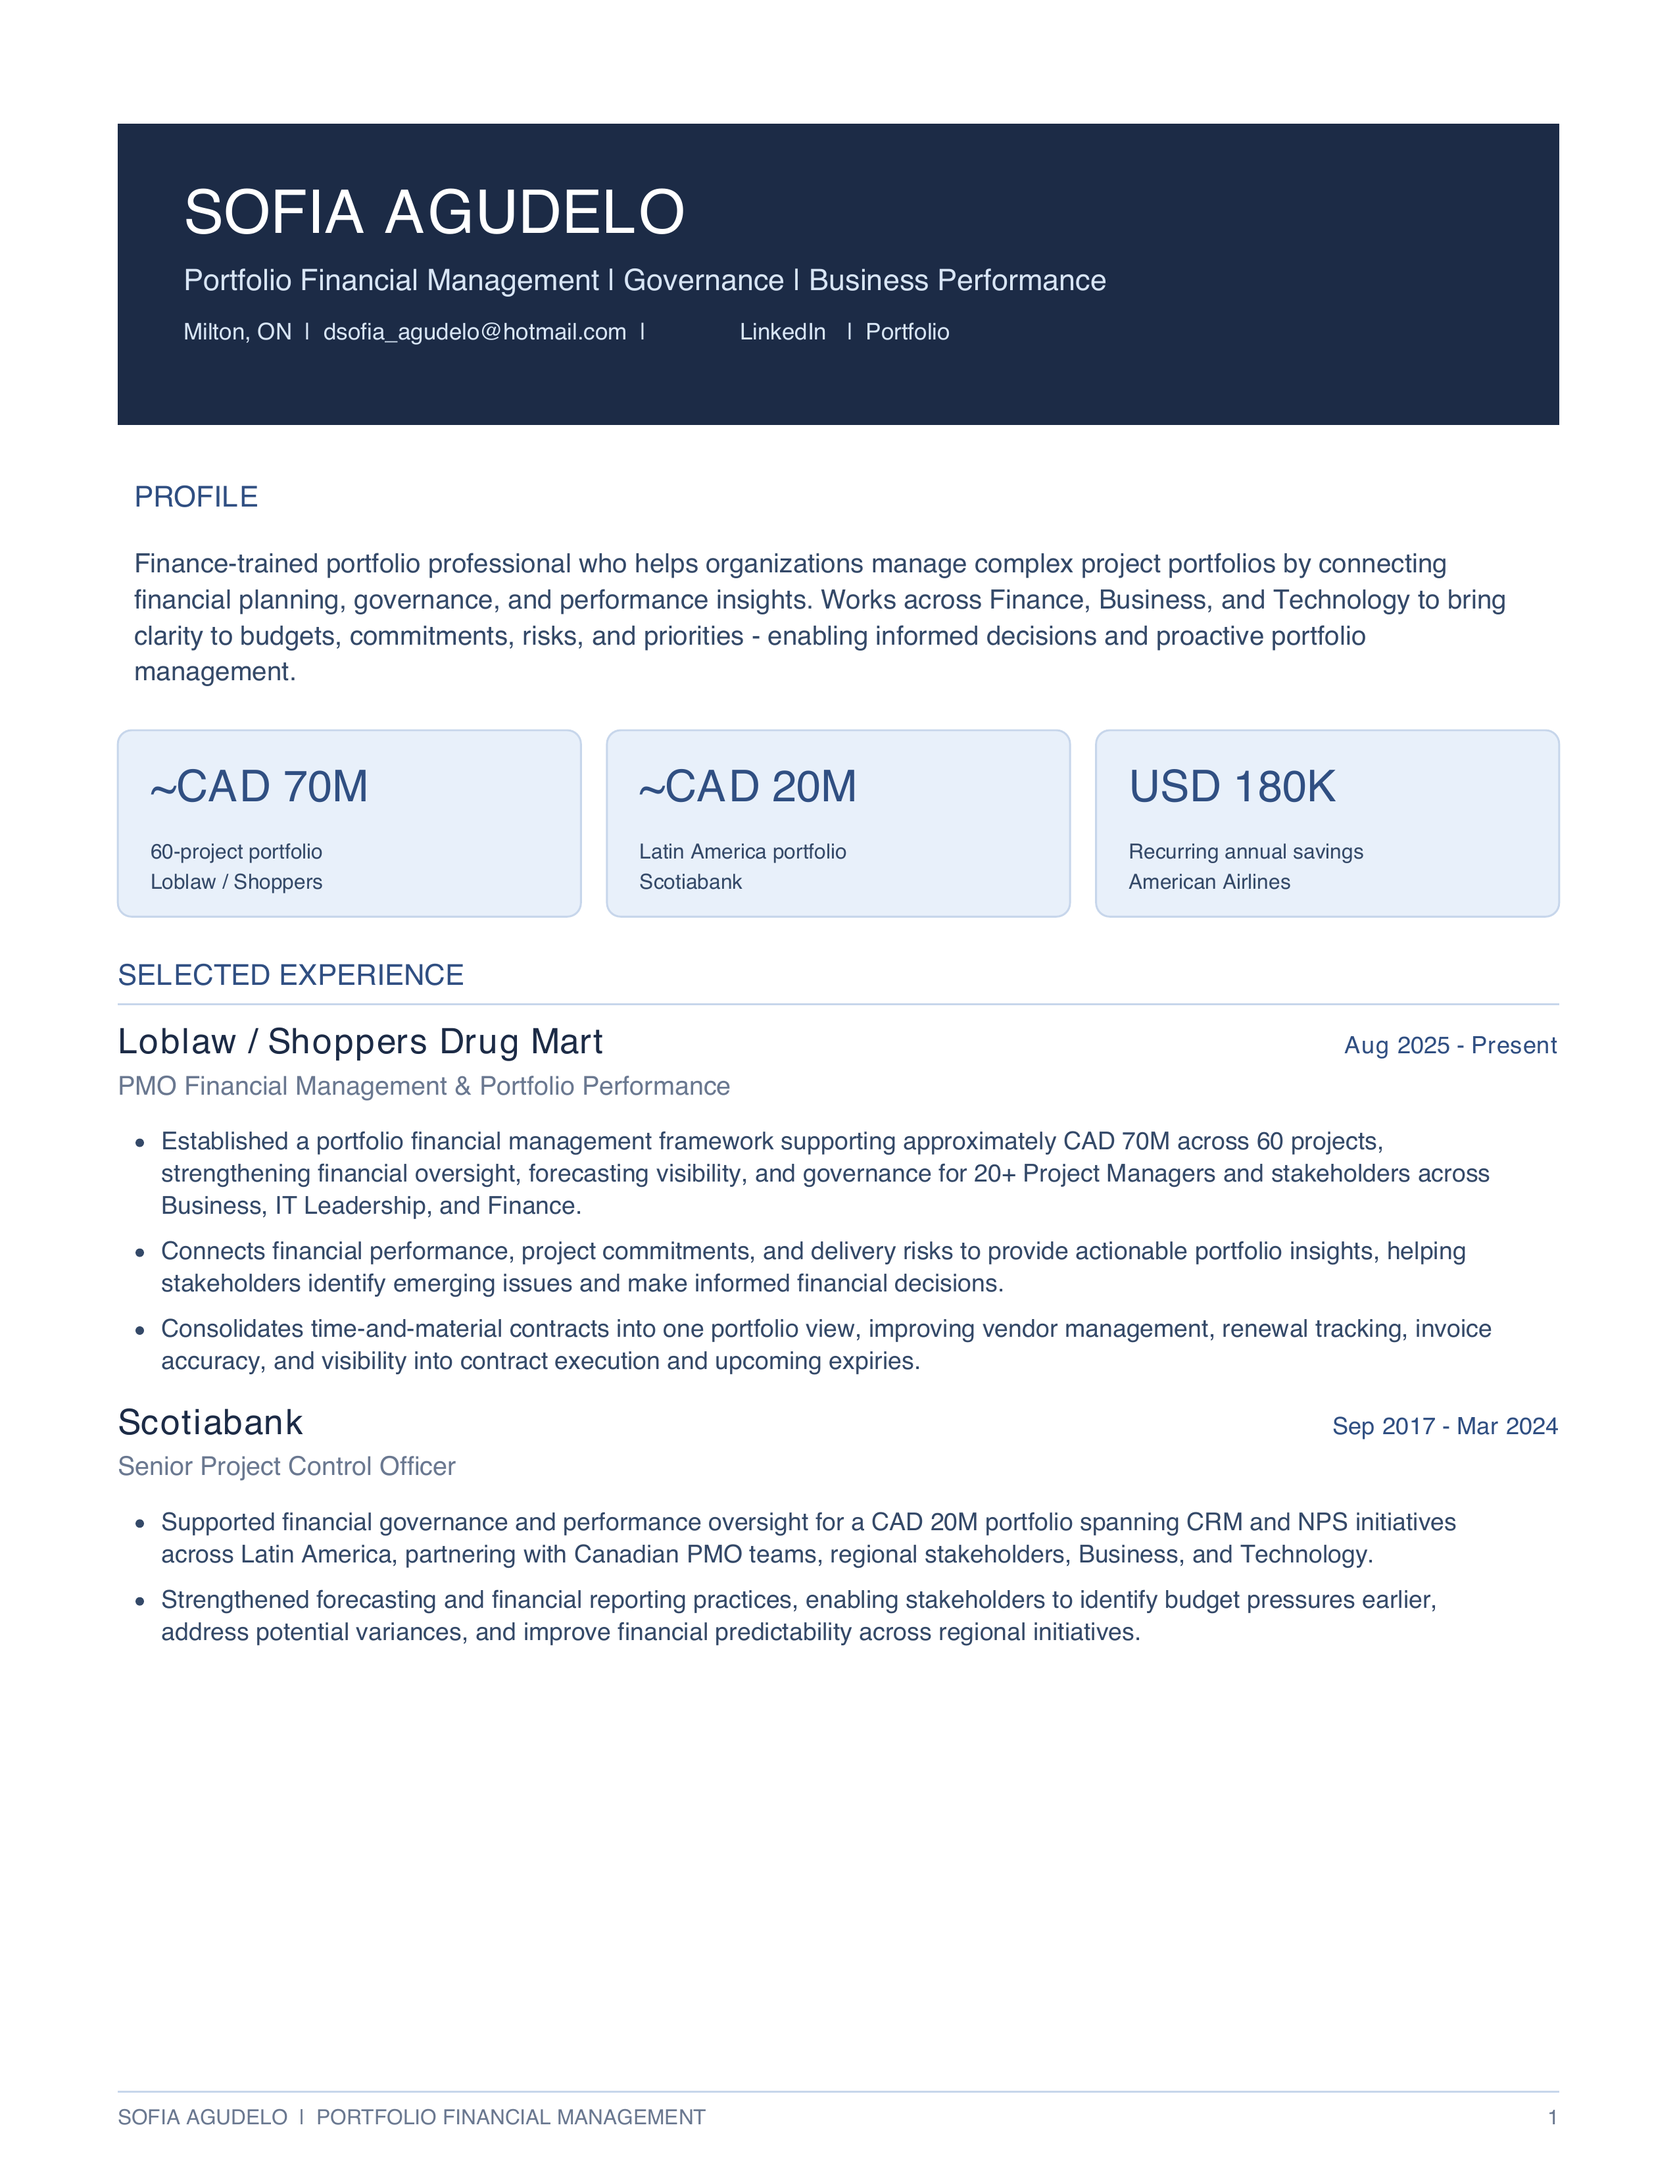
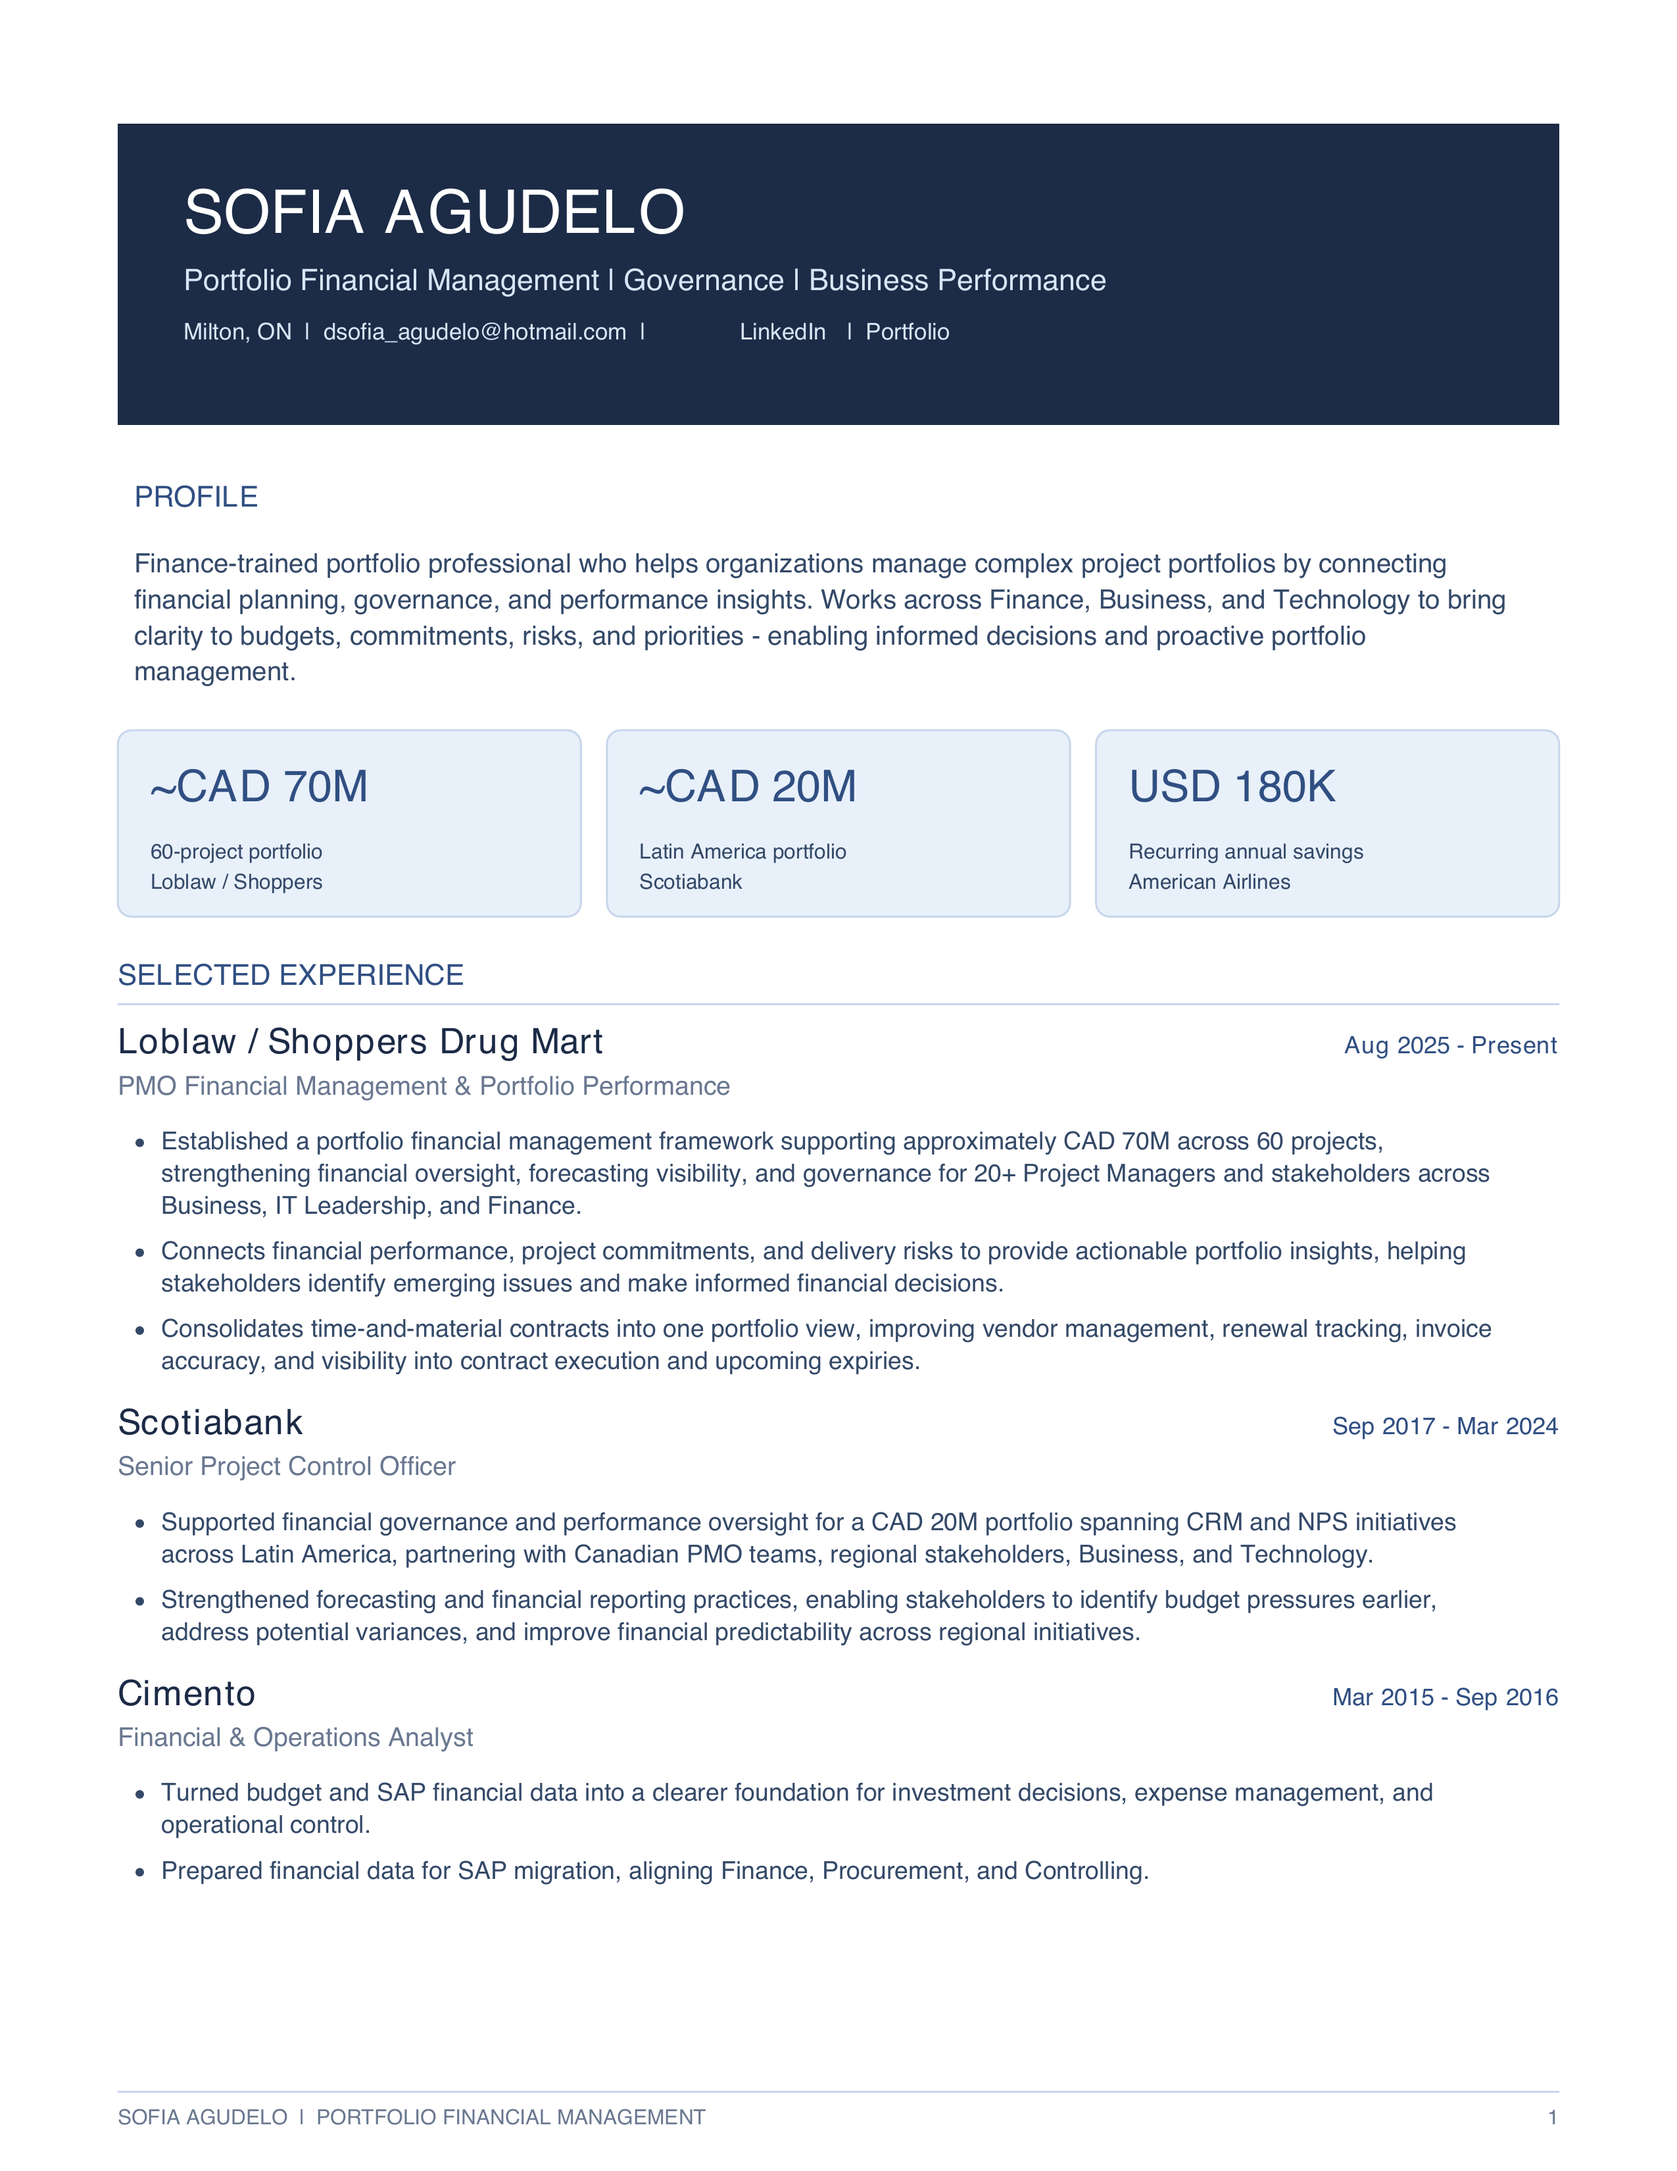
Rebalance resume content across pages

diff --git a/resume.html b/resume.html
@@ -1,7 +1,7 @@
 <!doctype html>
 <html lang="en"><head><meta charset="utf-8"><meta name="viewport" content="width=device-width,initial-scale=1"><meta name="robots" content="noindex,nofollow"><title>Resume · Sofia Agudelo</title><link rel="stylesheet" href="styles.css?v=20260928-4"><link rel="stylesheet" href="banner-fix.css?v=20260930-1"><link rel="icon" type="image/svg+xml" href="favicon.svg"><link rel="preconnect" href="https://fonts.googleapis.com"><link rel="preconnect" href="https://fonts.gstatic.com" crossorigin><link href="https://fonts.googleapis.com/css2?family=DM+Sans:wght@400;500;600;700&family=Playfair+Display:wght@500;600&display=swap" rel="stylesheet"></head>
 <body><a class="skip" href="#main">Skip to content</a><nav class="nav" aria-label="Main navigation"><div class="wrap"><a class="brand" href="index.html"><span>SOFIA AGUDELO<small>PORTFOLIO FINANCIAL MANAGEMENT</small></span></a><div class="navlinks"><a href="index.html">Home</a><a href="achievements.html">Achievements</a><a href="experience.html">Experience</a><a class="active" href="resume.html">Resume</a><a href="contact.html">Contact</a></div></div></nav>
-<main id="main" class="wrap resume-view-page"><header class="resume-view-head"><div><div class="eyebrow">Portfolio Financial Management · Governance · Business Performance</div><h1 class="serif">Resume</h1><p>Finance-trained portfolio professional with extensive experience in IT project environments, connecting financial planning, governance, and performance insights across Finance, Business, and Technology.</p></div><div class="resume-actions"><a class="btn primary" href="assets/Sofia-Agudelo-Resume.pdf?v=20261010-1" download="Sofia-Agudelo-Resume.pdf">↓ Download resume</a><a class="btn" href="assets/Sofia-Agudelo-Resume.pdf?v=20261010-1" target="_blank" rel="noopener">Open PDF ↗</a></div></header>
-<section class="pdf-shell pdf-native" aria-label="Sofia Agudelo resume PDF"><object data="assets/Sofia-Agudelo-Resume.pdf?v=20261010-1" type="application/pdf" aria-label="Sofia Agudelo resume"><a class="btn primary" href="assets/Sofia-Agudelo-Resume.pdf?v=20261010-1" target="_blank" rel="noopener">View resume PDF</a></object></section>
-<section class="pdf-shell resume-preview" aria-label="Sofia Agudelo resume preview"><img src="assets/sofia-resume-page-1.png?v=20261010-1" alt="Sofia Agudelo resume, page 1" usemap="#resume-page-one-links"><map name="resume-page-one-links"><area shape="rect" coords="1080,430,1235,505" href="https://www.linkedin.com/in/sofia-agudelo/" target="_blank" rel="noopener" alt="Sofia Agudelo on LinkedIn"><area shape="rect" coords="1250,430,1415,505" href="https://sofiaagudelo.com" target="_blank" rel="noopener" alt="Sofia Agudelo portfolio"></map><img src="assets/sofia-resume-page-2.png?v=20261010-1" alt="Sofia Agudelo resume, page 2"></section>
+<main id="main" class="wrap resume-view-page"><header class="resume-view-head"><div><div class="eyebrow">Portfolio Financial Management · Governance · Business Performance</div><h1 class="serif">Resume</h1><p>Finance-trained portfolio professional with extensive experience in IT project environments, connecting financial planning, governance, and performance insights across Finance, Business, and Technology.</p></div><div class="resume-actions"><a class="btn primary" href="assets/Sofia-Agudelo-Resume.pdf?v=20261011-1" download="Sofia-Agudelo-Resume.pdf">↓ Download resume</a><a class="btn" href="assets/Sofia-Agudelo-Resume.pdf?v=20261011-1" target="_blank" rel="noopener">Open PDF ↗</a></div></header>
+<section class="pdf-shell pdf-native" aria-label="Sofia Agudelo resume PDF"><object data="assets/Sofia-Agudelo-Resume.pdf?v=20261011-1" type="application/pdf" aria-label="Sofia Agudelo resume"><a class="btn primary" href="assets/Sofia-Agudelo-Resume.pdf?v=20261011-1" target="_blank" rel="noopener">View resume PDF</a></object></section>
+<section class="pdf-shell resume-preview" aria-label="Sofia Agudelo resume preview"><img src="assets/sofia-resume-page-1.png?v=20261011-1" alt="Sofia Agudelo resume, page 1" usemap="#resume-page-one-links"><map name="resume-page-one-links"><area shape="rect" coords="1080,430,1235,505" href="https://www.linkedin.com/in/sofia-agudelo/" target="_blank" rel="noopener" alt="Sofia Agudelo on LinkedIn"><area shape="rect" coords="1250,430,1415,505" href="https://sofiaagudelo.com" target="_blank" rel="noopener" alt="Sofia Agudelo portfolio"></map><img src="assets/sofia-resume-page-2.png?v=20261011-1" alt="Sofia Agudelo resume, page 2"></section>
 </main><footer class="wrap footer">© 2026 Sofia Agudelo · <a href="https://www.linkedin.com/in/sofia-agudelo/" target="_blank" rel="noopener noreferrer">LinkedIn</a></footer><script>const localPreview=location.protocol==='file:';document.querySelector('.pdf-native').hidden=localPreview;document.querySelector('.resume-preview').hidden=!localPreview;</script></body></html>
